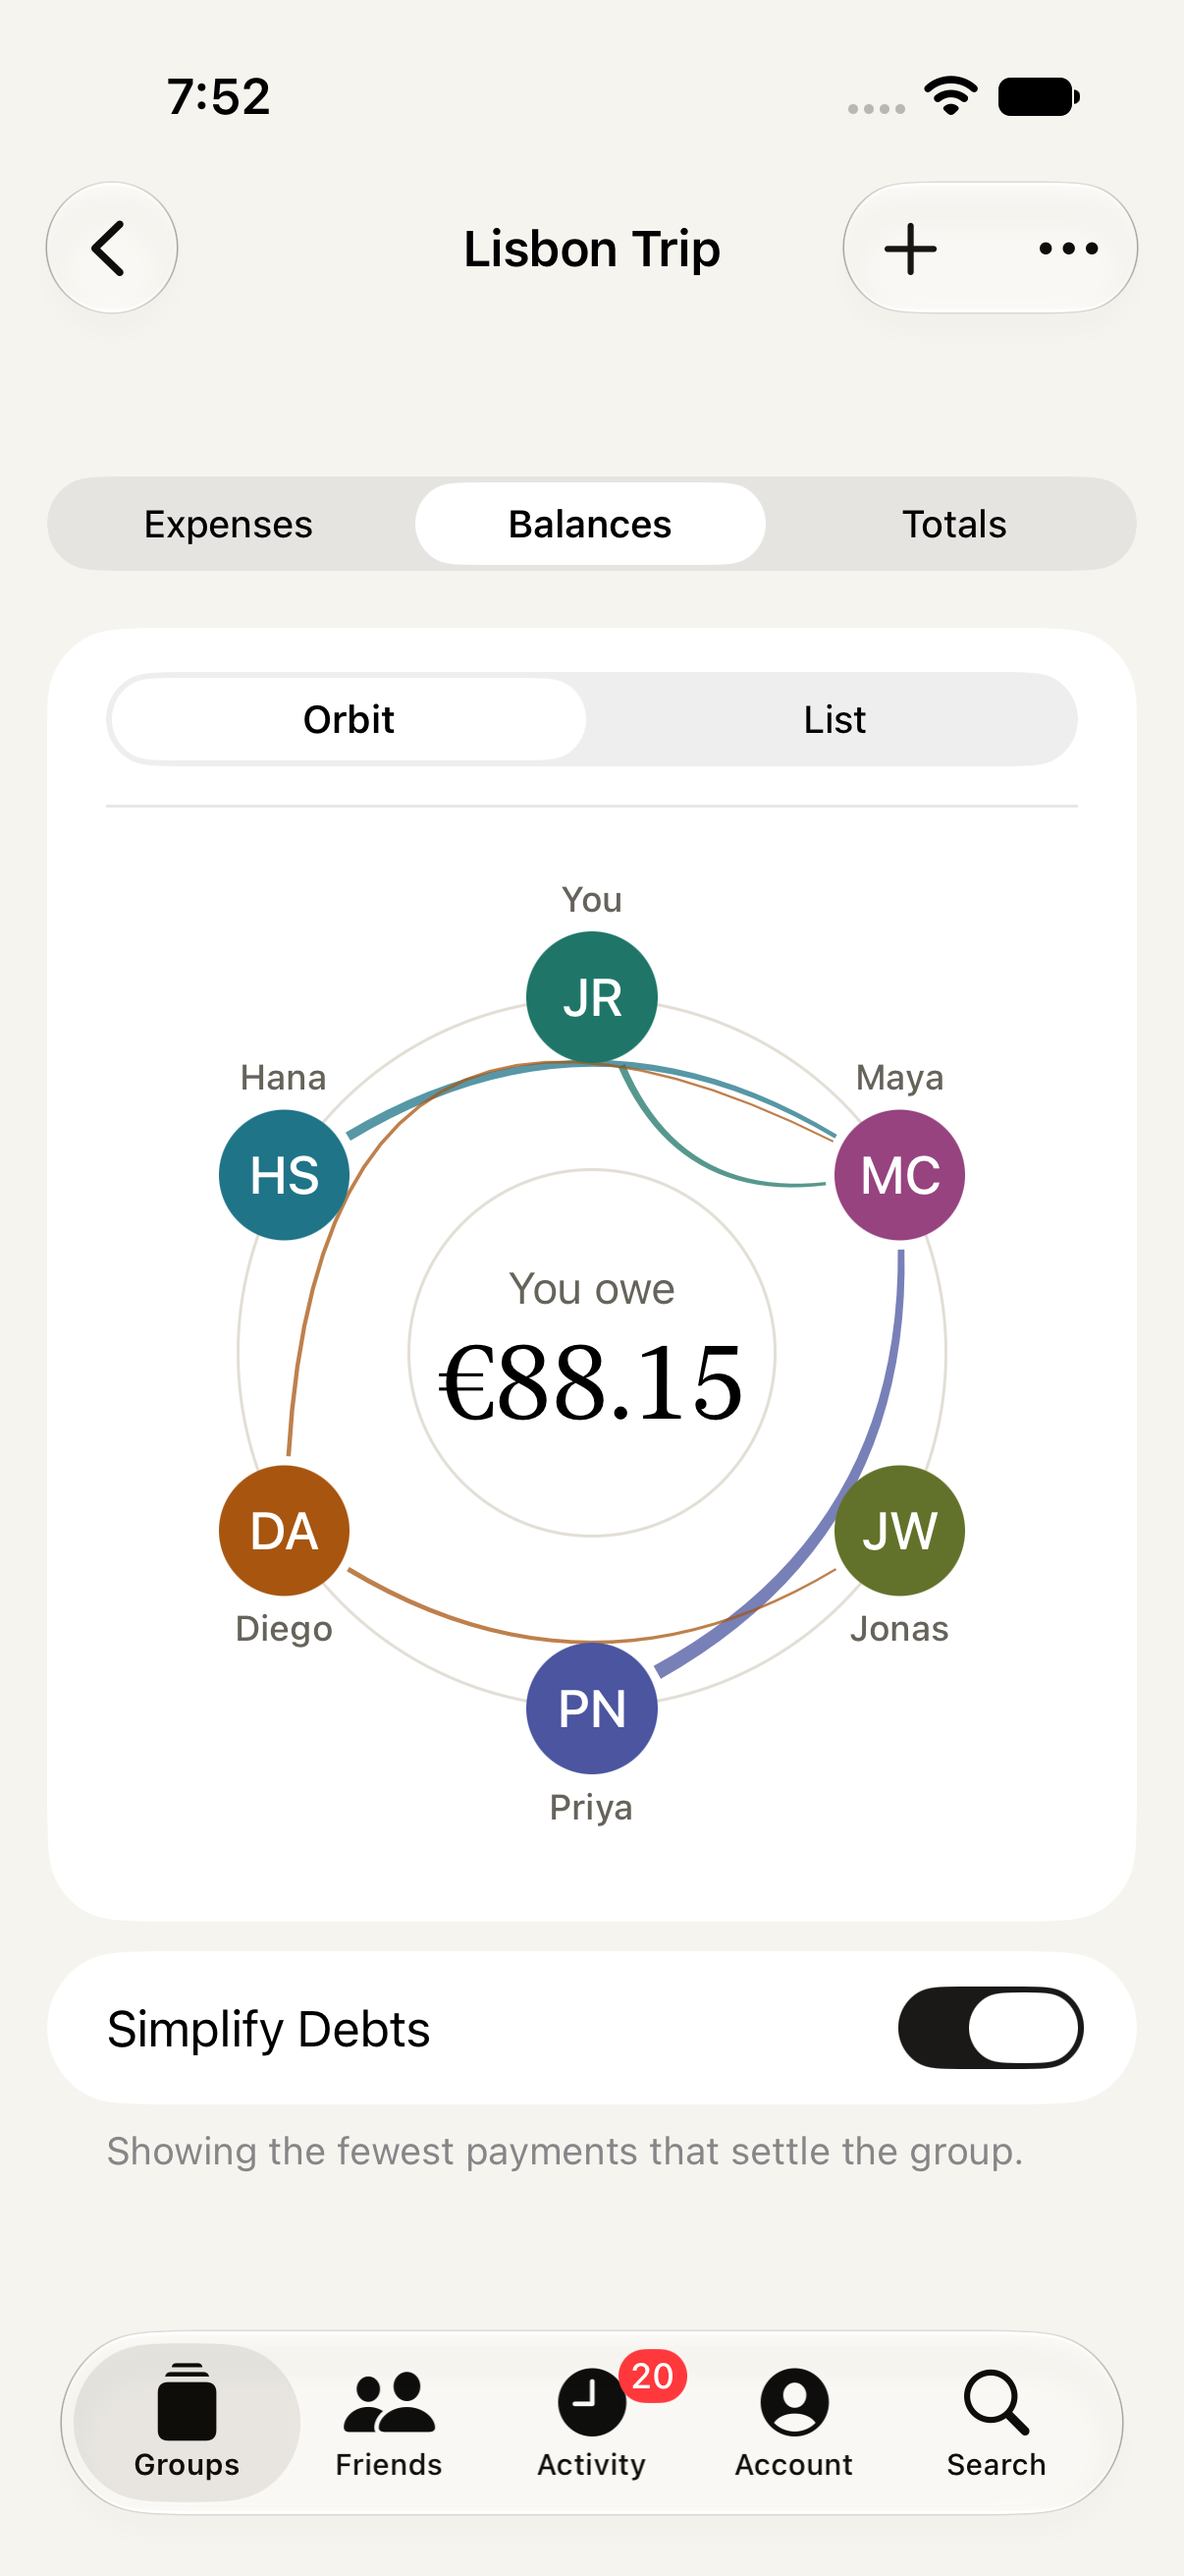
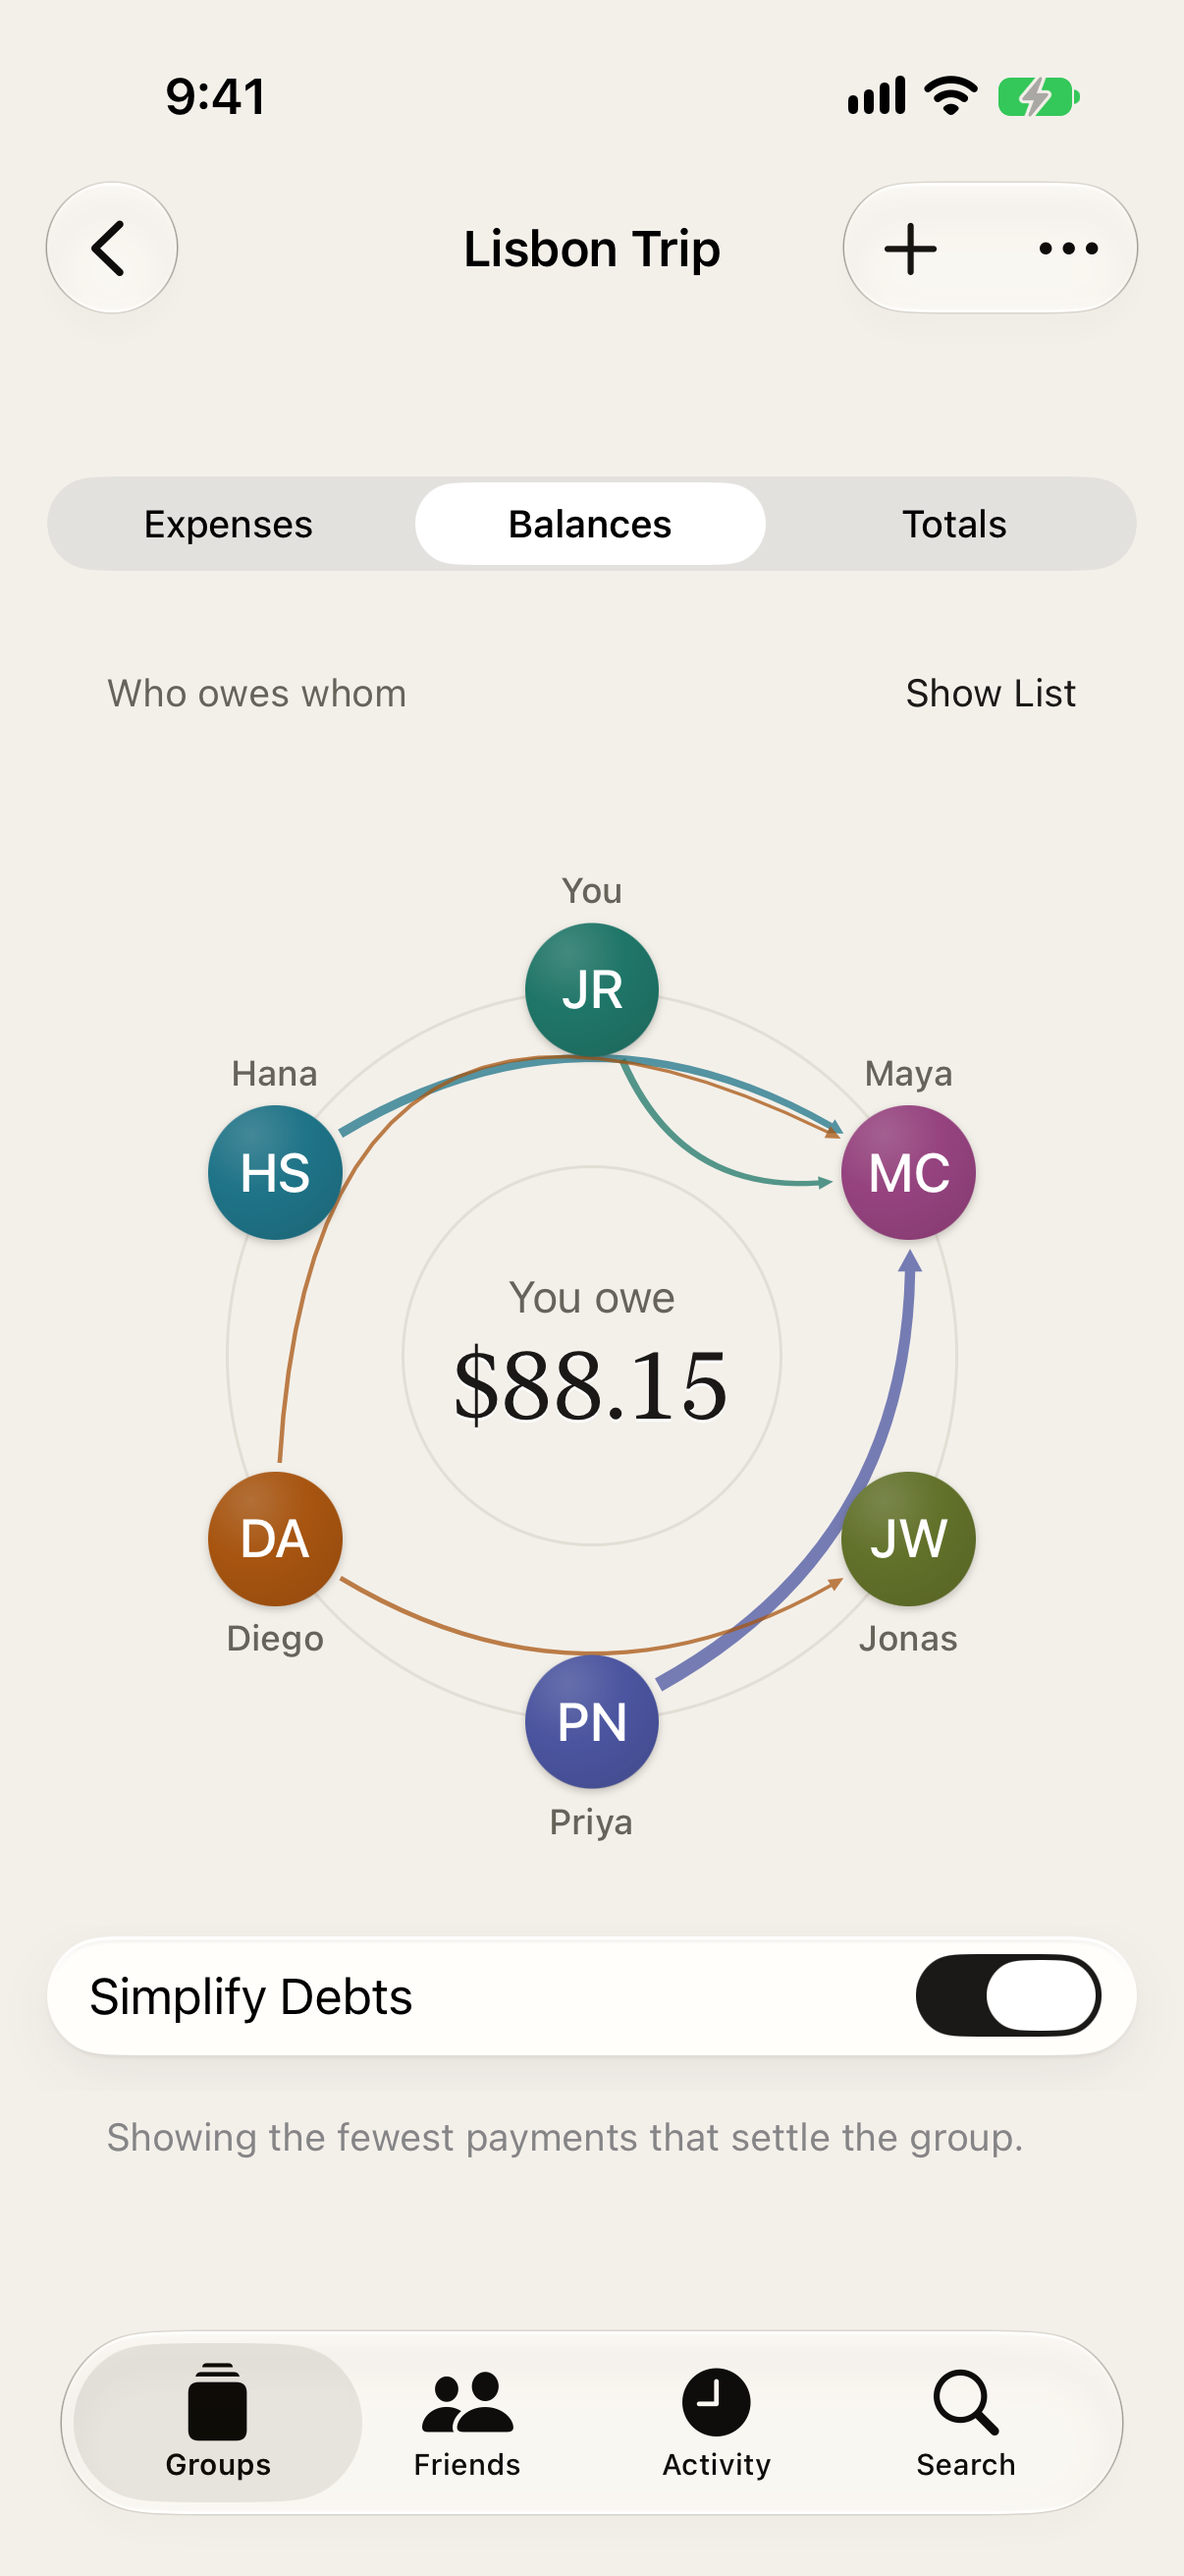
Retake the screenshots for the README and website
They still showed an Account tab and euro sample data. The split bar picture is taken without the number pad so the whole bar is in it.

diff --git a/SpltUITests/ScreenshotWalkUITests.swift b/SpltUITests/ScreenshotWalkUITests.swift
@@ -62,6 +62,9 @@ final class ScreenshotWalkUITests: XCTestCase {
         if app.navigationBars["New Expense"].waitForExistence(timeout: 5) {
             shot("08-add-expense")
             for key in ["6", "0"] { app.buttons[key].firstMatch.tap() }
+            // without the pad, so the whole split bar and its amounts are in the picture
+            let hide = app.buttons["Hide number pad"].firstMatch
+            if hide.waitForExistence(timeout: 2) { hide.tap() }
             shot("09-add-expense-split")
             app.buttons["Cancel"].tap()
             let discard = app.buttons["Discard Changes"].firstMatch
